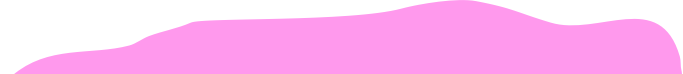
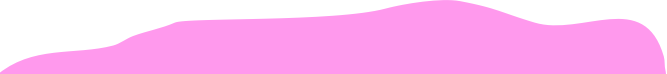
Add sticky footer and about path

diff --git a/app/assets/stylesheets/spam.scss b/app/assets/stylesheets/spam.scss
@@ -6,12 +6,29 @@ html, body {
   margin: 0;
 }
 
+body {
+  display: flex;
+  flex-direction: column;
+  min-height: 100vh;
+}
+
+main {
+  flex: 1 0 auto;
+}
+
 .header--title {
-  font-family: 'arial';
+  text-transform: uppercase;
+  font-weight: 600;
   font-size: 80pt;
   color: #FF99ED;
+  text-align: center;
   margin: 0;
-  margin: 0;
+}
+
+.container {
+  margin-left: 20px;
+  width: 1000px;
+  margin: 0 auto;
 }
 
 .categories {
@@ -19,6 +36,7 @@ html, body {
   list-style-type: none;
   margin: 0;
   padding: 0;
+  text-align: center;
 }
 
 .categories li {
@@ -43,20 +61,67 @@ html, body {
   font-weight: lighter;
 }
 
-.spam--content {
-  font-family: 'arial';
+.site--intro {
+  display: flex;
+  font-family: 'arial', sans-serif;
+  font-size: 26pt;
+  margin: 0 auto;
 }
 
-.spam--top {
-  position: absolute;
-  background:url('pink_blob_top.png');
-  background-position: top;
-  background-repeat: no-repeat;
-  top: 10%;
-  width: 100%;
-  height: 100%;
+.site--intro-first {
+  text-align: center;
 }
+
+.site--intro-second {
+  text-align: center;
+}
+
+.site--intro-third {
+  text-align: center;
+}
+
+.spam--content {
+  font-family: 'arial';
+  position: absolute;
+  background: url('pink_blob_top.png') top no-repeat;
+  top: 12%;
+  left: 25%;
+  width: 660px;
+  height: 100%;
+  z-index: 1;
+}
+
+.spam--middle {
+  position: absolute;
+  background-color: #FF99ED;
+  top: 10%;
+  width: 620px;
+  padding: 20px;
+}
+
+
 .spam--title {
+  font-family: 'times';
   font-weight: lighter;
-  font-size: 11pt;
+  font-style: italic;
+  font-size: 20pt;
+  text-align: center;
+}
+
+.spam--body {
+  font-weight: lighter;
+  font-size: 9pt;
+}
+
+.spam--bottom {
+  background: url('pink_blob_bottom.png') bottom no-repeat;
+}
+
+.site--footer {
+  text-align: right;
+}
+
+.site--footer-link {
+  font-family: 'arial', sans-serif;
+  font-size: 30pt;
 }

diff --git a/app/javascript/components/spams_container.jsx b/app/javascript/components/spams_container.jsx
@@ -33,7 +33,7 @@ class SpamsContainer extends React.Component {
   render() {
     console.log(this.state)
     return (
-      <div className="spams--container">
+      <div className="container">
         <ul className="categories">
             {this.state.categories.map((category, index) => {
               return (
@@ -42,16 +42,34 @@ class SpamsContainer extends React.Component {
             })}
         </ul>
 
+        <div className="site--intro">
+          <p className="site--intro-first">
+            I want to tell you something, but I want to wear a mask.
+            Commodity made me this way, and I'm sorry.
+            I'm jumbled up inside, and I want to express myself without known
+            rules to constrain me.
+          </p>
+          <p className="site--intro-second">
+            No gross people here.
+            If you're gross, you're somewhere else.
+            I don't even have to do that labor.
+            You've already left!
+          </p>
+          <p className="site--intro-third">
+            This is a Utopia.
+            Your neurons join with my neurons if you are certified
+            acceptable by the Center of Acceptability.
+          </p>
+        </div>
+
         {this.state.spamVisibility ? (
           <SpamList spams={this.state.spams} />
         ) : (
-          <h2>WHA</h2>
+          <p></p>
         )}
-
       </div>
     )
   }
 }
-
 
 export default SpamsContainer;

diff --git a/app/javascript/components/spam_list.jsx b/app/javascript/components/spam_list.jsx
@@ -6,9 +6,11 @@ const SpamList = (props) => {
       {props.spams.map((spam, index) => {
         return (
           <div key={index} className="spam--content">
-            <span className="spam--top"></span>
-            <h2 className="spam--title">{spam.title}</h2>
-            <p className="spam--body">{spam.body}</p>
+            <div className="spam--middle">
+              <h2 className="spam--title">{spam.title}</h2>
+              <p className="spam--body">{spam.body}</p>
+              <span className="spam--bottom"></span>
+            </div>
           </div>
         )
       })}

diff --git a/db/seeds.rb b/db/seeds.rb
@@ -60,5 +60,24 @@ category.spams << spam
 
 Category.find_or_create_by(name: "career")
 Category.find_or_create_by(name: "love")
+
+age_spam = Spam.find_or_create_by(title: "BE YOU FOREVER! but not really forever, you can turn on and off at your leisure")
+age_spam.body =
+"The Internet feels scattered and strange, just like you. Do you know what came first? It's an age-old question, a chicken and the egg.
+
+Am I scattered and strange because of the Internet, or did the Internet make me scattered and strange? I hear the tree falling in the forest,
+as I examine my body and face for any signs of age.
+
+Did you know we all die?
+In a way, it is comforting.
+Life is very tedious, and perhaps for most, it is not very nice.
+But we know nothing else, and the idea of non-being, worse than the idea of un-being,
+is a scary thought, one that has the Google people perplexed and attempting to make us live forever.
+Can I tell you that this is not the right way to go about this problem of WRINKLES and a body that makes the word 'meatspace'
+ever so real.
+"
+
 Category.find_or_create_by(name: "age")
+
+
 Category.find_or_create_by(name: "money")

diff --git a/config/routes.rb b/config/routes.rb
@@ -4,4 +4,5 @@ Rails.application.routes.draw do
   root to: 'spam#index'
   get '/api/spam', to: 'api/spam#index'
   get '/api/categories', to: 'api/categories#index'
+  get '/about/', to: 'about#index'
 end

diff --git a/app/controllers/about_controller.rb b/app/controllers/about_controller.rb
@@ -1,0 +1,4 @@
+class AboutController < ApplicationController
+  def index
+  end
+end
